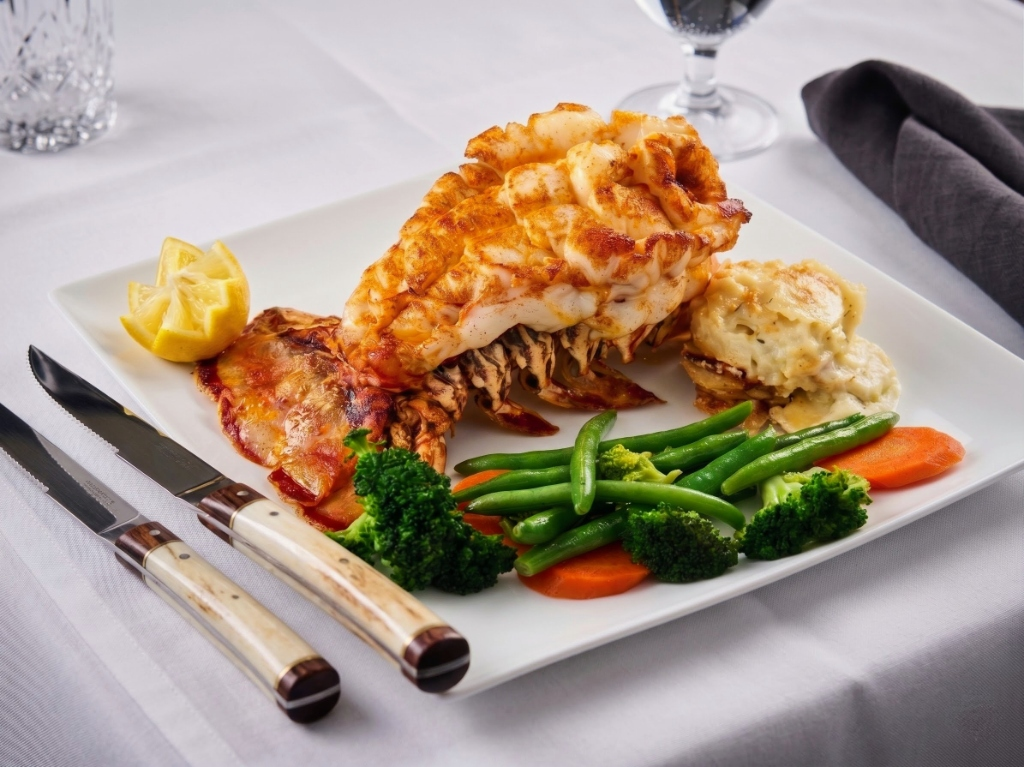
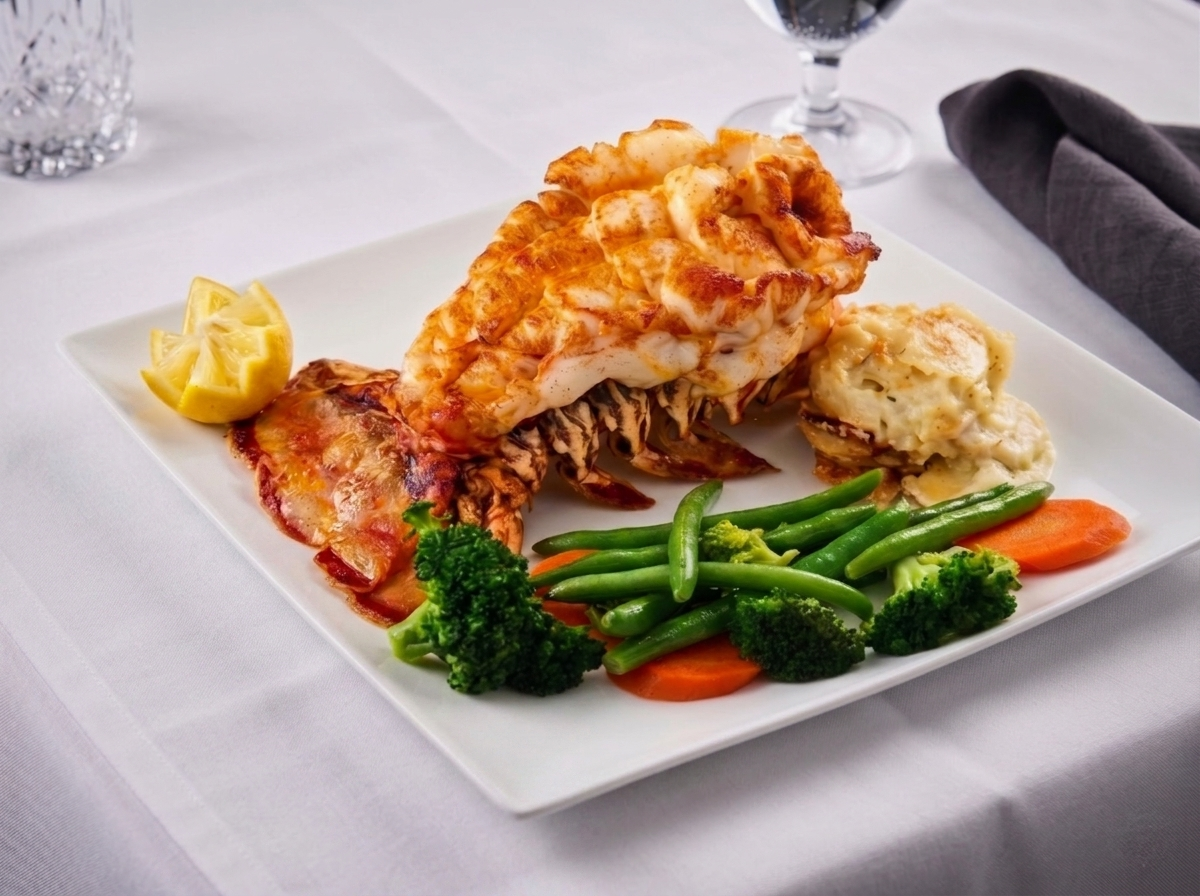
Remove steak knives from lobster tail gallery image

diff --git a/scratch/check_dim.py b/scratch/check_dim.py
@@ -1,0 +1,10 @@
+from PIL import Image
+import os
+
+path = r"C:\Users\phill\.gemini\antigravity\scratch\cafe-de-marco-website\public\images\gallery_lobster.jpg"
+if os.path.exists(path):
+    with Image.open(path) as img:
+        print("Dimensions:", img.size)
+        print("Aspect ratio:", img.size[0] / img.size[1])
+else:
+    print("Not found")
